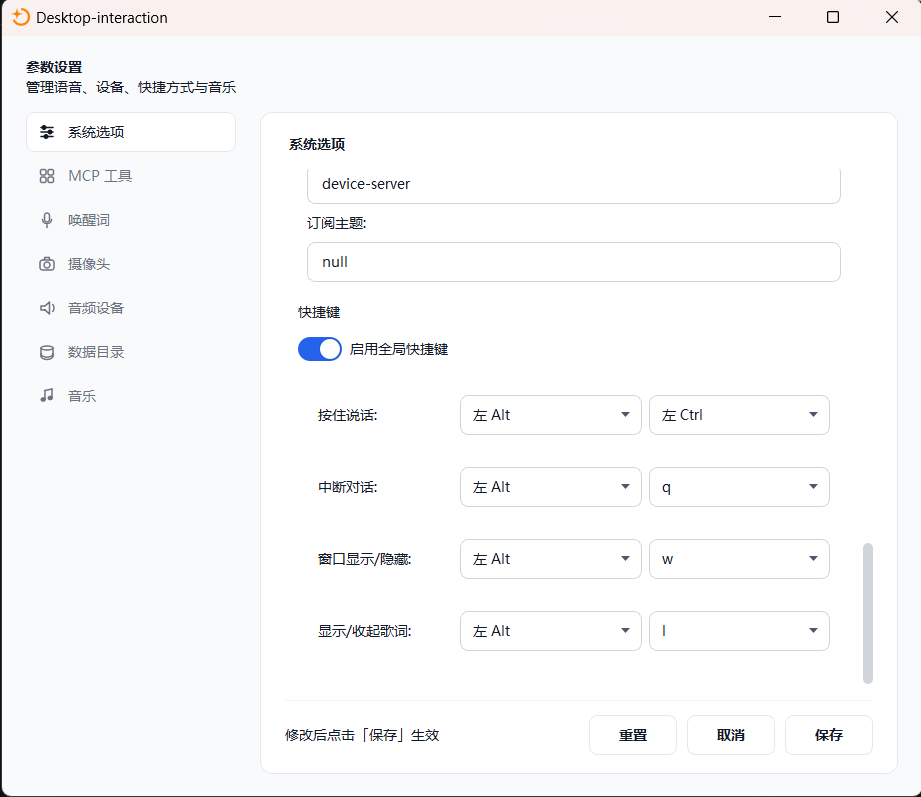
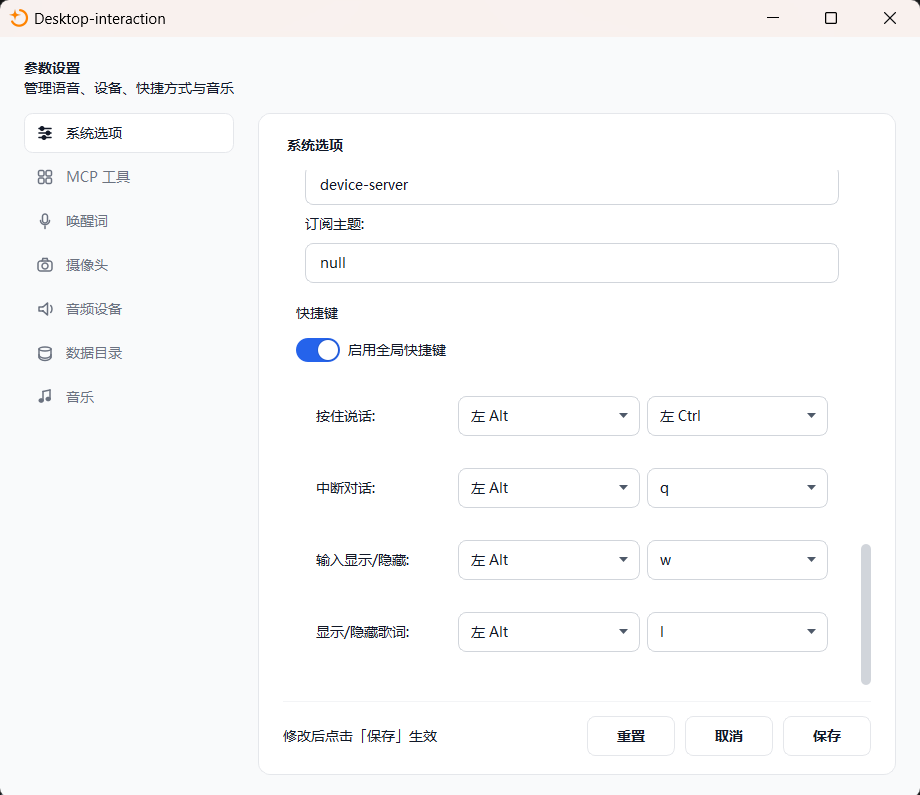
信息变更

diff --git a/src/views/settings/components/shortcuts_settings.py b/src/views/settings/components/shortcuts_settings.py
@@ -77,9 +77,9 @@ class ShortcutsSettingsWidget(QWidget):
         )
         shortcuts_layout.addWidget(self.shortcut_widgets["ABORT"])
 
-        # 窗口显示/隐藏
+        # 输入显示/隐藏
         self.shortcut_widgets["WINDOW_TOGGLE"] = self.create_shortcut_config(
-            "窗口显示/隐藏", self.shortcuts_config.get("WINDOW_TOGGLE", {})
+            "输入显示/隐藏", self.shortcuts_config.get("WINDOW_TOGGLE", {})
         )
         shortcuts_layout.addWidget(self.shortcut_widgets["WINDOW_TOGGLE"])
 
@@ -90,7 +90,7 @@ class ShortcutsSettingsWidget(QWidget):
         lyrics_cfg.setdefault("modifier", "alt")
         lyrics_cfg.setdefault("key", "l")
         self.shortcut_widgets["MUSIC_LYRICS_TOGGLE"] = self.create_shortcut_config(
-            "显示/收起歌词", lyrics_cfg
+            "显示/隐藏歌词", lyrics_cfg
         )
         shortcuts_layout.addWidget(
             self.shortcut_widgets["MUSIC_LYRICS_TOGGLE"]

diff --git a/USER_MANUAL.md b/USER_MANUAL.md
@@ -33,11 +33,11 @@ B- 源码运行main.py，具体参考项目开发及开发环境运行说明见 
 
 🔕**中断对话**——顾名思义就是打断正在进行的对话，在小智说话时按[按住说话]快捷键也可以打断说话
 
-🔤**窗口显示/隐藏**——是输入框的窗口隐藏及显示，当当前环境嘈杂或者不适合语言时可以通过输入框进行简短对话
+🔤**输入显示/隐藏**——是输入框的窗口隐藏及显示，当当前环境嘈杂或者不适合语言时可以通过输入框进行简短对话
 <img src="other_resources/image4.png" alt="输入框"/>
 输入框默认居中在屏幕正上方
 
-🎵**显示/收起歌词**——既在播放音乐时会有单独的音乐播放界面，如果界面遮挡桌面操作可以通过快捷键隐藏
+🎵**显示/隐藏歌词**——既在播放音乐时会有单独的音乐播放界面，如果界面遮挡桌面操作可以通过快捷键隐藏
 
 ---
 

diff --git a/PROJECT_STRUCTURE.md b/PROJECT_STRUCTURE.md
@@ -56,8 +56,6 @@ Desktop-interaction/
 ├── scripts/                      # 开发辅助脚本（相机扫描、日历查询、目录树生成等）
 ├── installer/                    # Windows 安装包构建脚本（NSIS / Inno Setup）
 ├── requirements.txt              # Python 依赖
-├── build.json                    # Nuitka 打包配置
-├── build_nsis.bat                # 一键构建安装包（Windows）
 └── README.md
 ```
 
